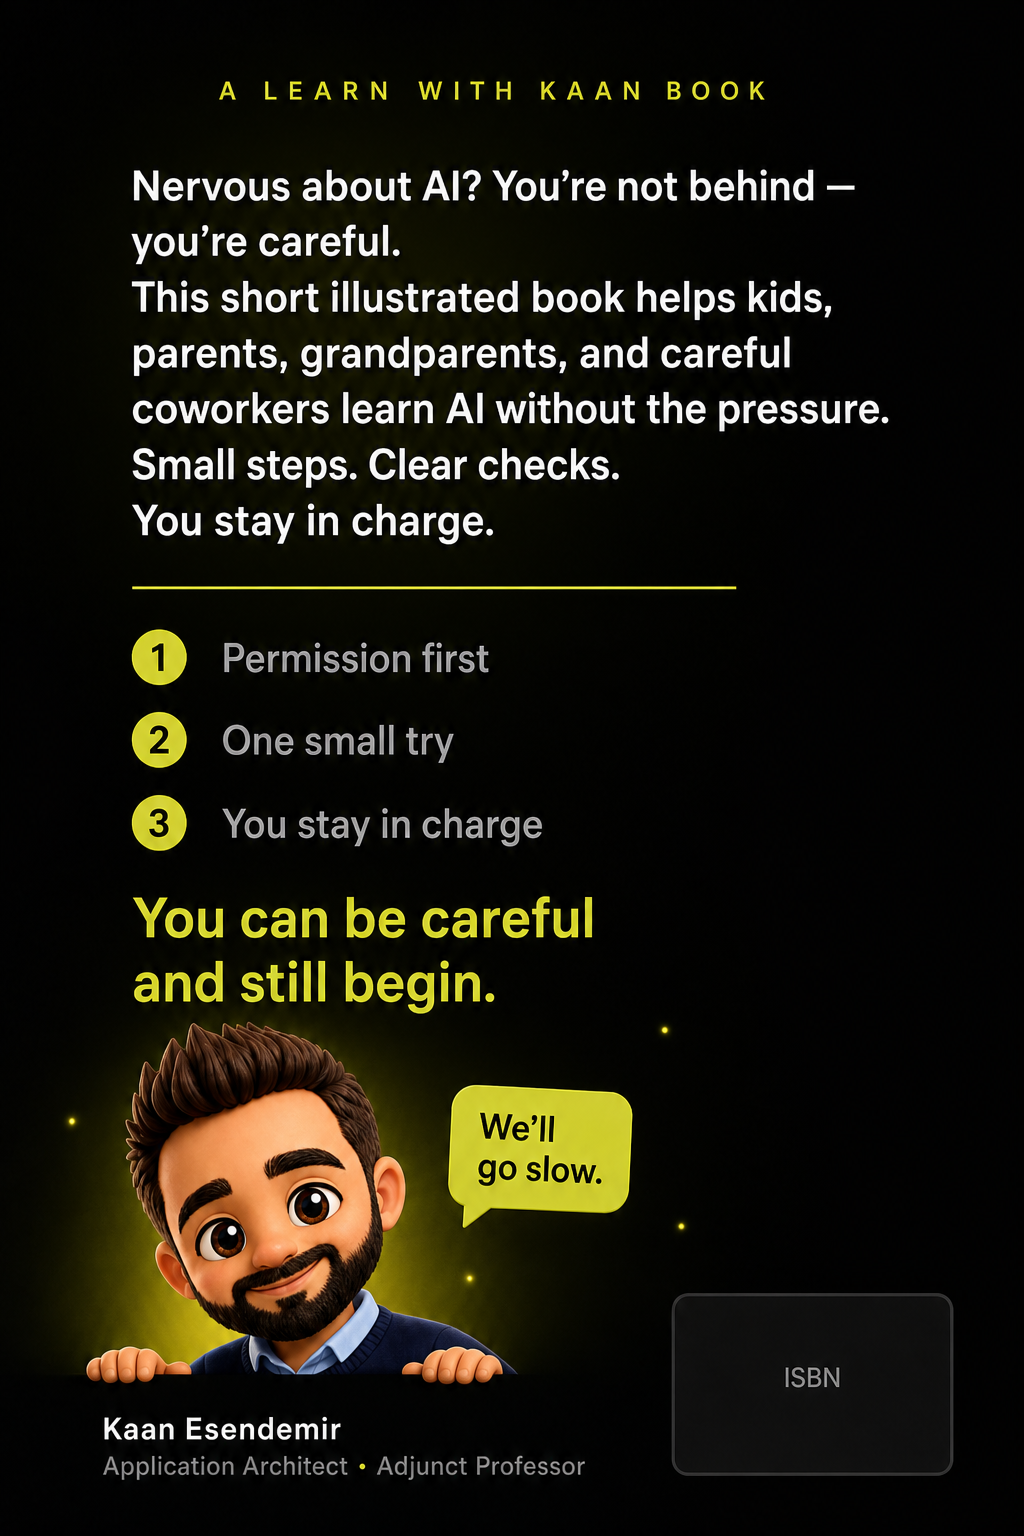
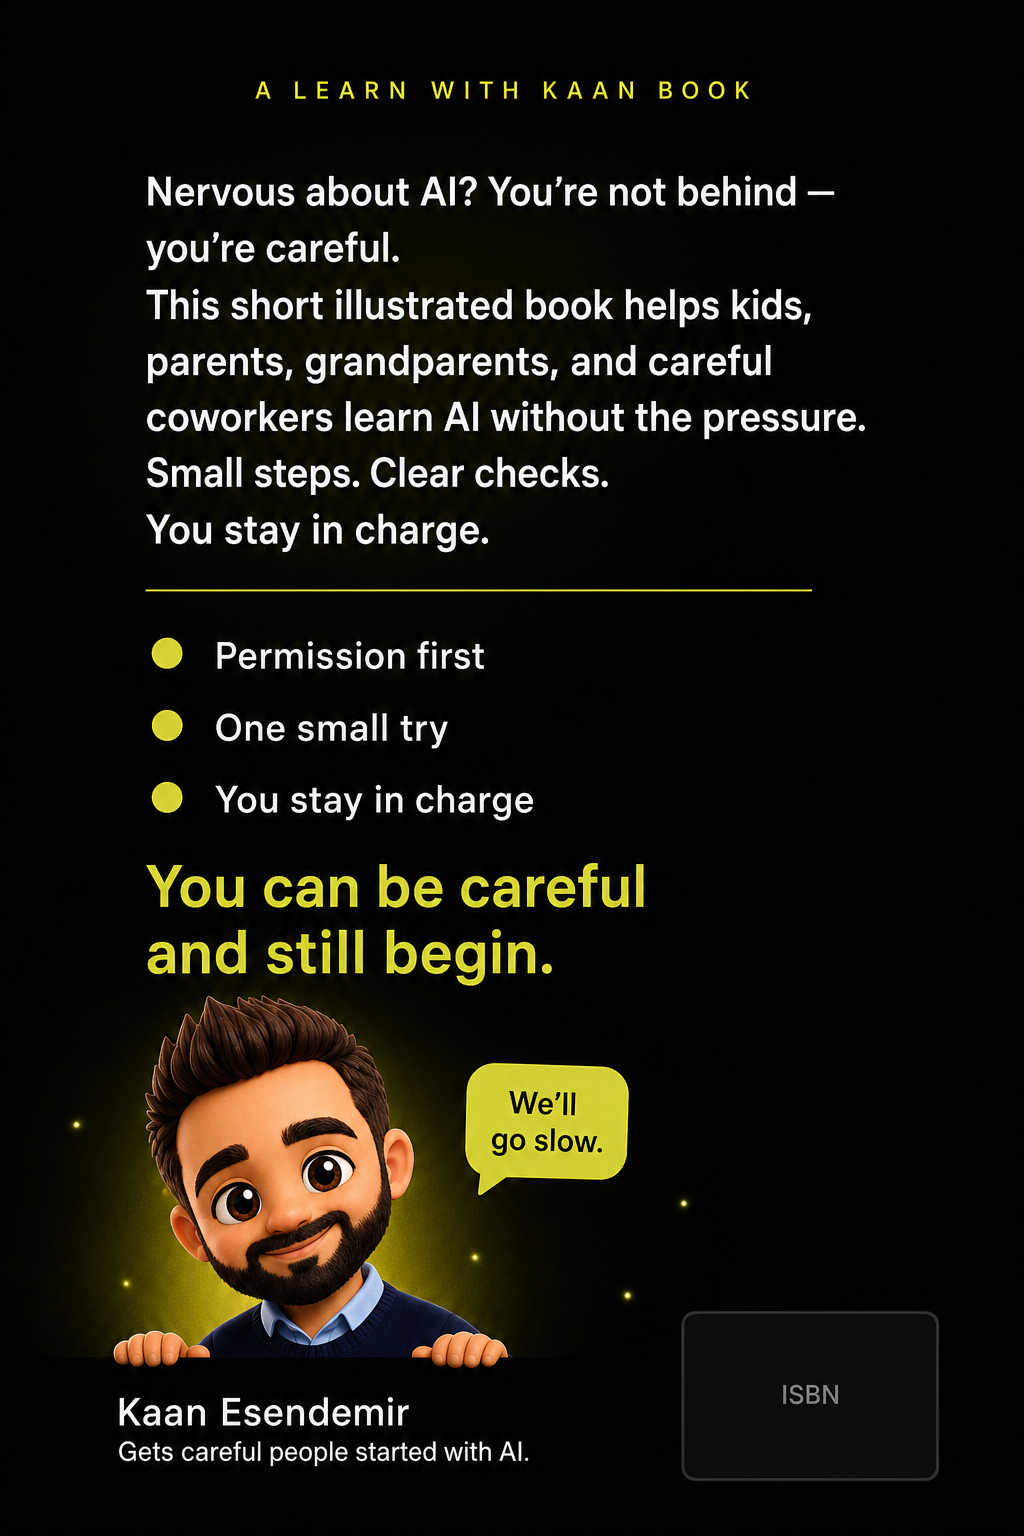
Update back-cover byline to getting people started as v0.2.4.
Keep job titles off the jacket; use Gets careful people started with AI.

diff --git a/index.html b/index.html
@@ -280,7 +280,7 @@
 
     <footer class="site-footer">
       <span>© <span id="year">2026</span> Kaan Esendemir</span>
-      <span class="site-version" data-site-version>v0.2.3</span>
+      <span class="site-version" data-site-version>v0.2.4</span>
     </footer>
 
     <nav class="tabbar" aria-label="Mobile">

diff --git a/js/main.js b/js/main.js
@@ -3,7 +3,7 @@
  * Paste real Buttondown (or similar) endpoint when ready.
  * Keep SITE_VERSION in sync with /VERSION (semver).
  */
-const SITE_VERSION = "0.2.3";
+const SITE_VERSION = "0.2.4";
 
 const CONFIG = {
   /** e.g. https://buttondown.com/api/emails/embed-subscribe/YOUR_USER */

diff --git a/brand-system/BOOK-1.md b/brand-system/BOOK-1.md
@@ -52,7 +52,9 @@ Draft concepts in `assets/covers/` (not final):
 
 Keep author name off the bubbles — name already appears as series/author credit.
 
-**Back (`cover-a3-back.png`):** series line · permission blurb · three beats · slogan · mascot peek · author credit · ISBN placeholder.
+**Back (`cover-a3-back.png`):** series line · permission blurb · three beats · slogan · mascot peek · author block · ISBN placeholder.
+
+**Author byline (under name, no job titles):** `Gets careful people started with AI.`
 
 **Cover rules:** “AI” in the title is Soft Citron `#D4E157`. Chat bubbles only — no devices. Teacher pose, hands free. Skip long help lines (too small in print).
 

diff --git a/BRAND.md b/BRAND.md
@@ -6,7 +6,8 @@
 - Subtitle: *Learn AI Without the Pressure*
 - Slogan: **You can be careful and still begin.**
 - Supporting line: No rush. No jargon. No shame.
-- Cred: Application Architect · Adjunct Professor · Author, *Learn with Kaan*
+- Cred (site/press): Application Architect · Adjunct Professor · Author, *Learn with Kaan*
+- Back-cover byline (under name): **Gets careful people started with AI.**
 - Primary CTA: **email list** (teaching notes + book updates)
 - Monetization: deferred
 